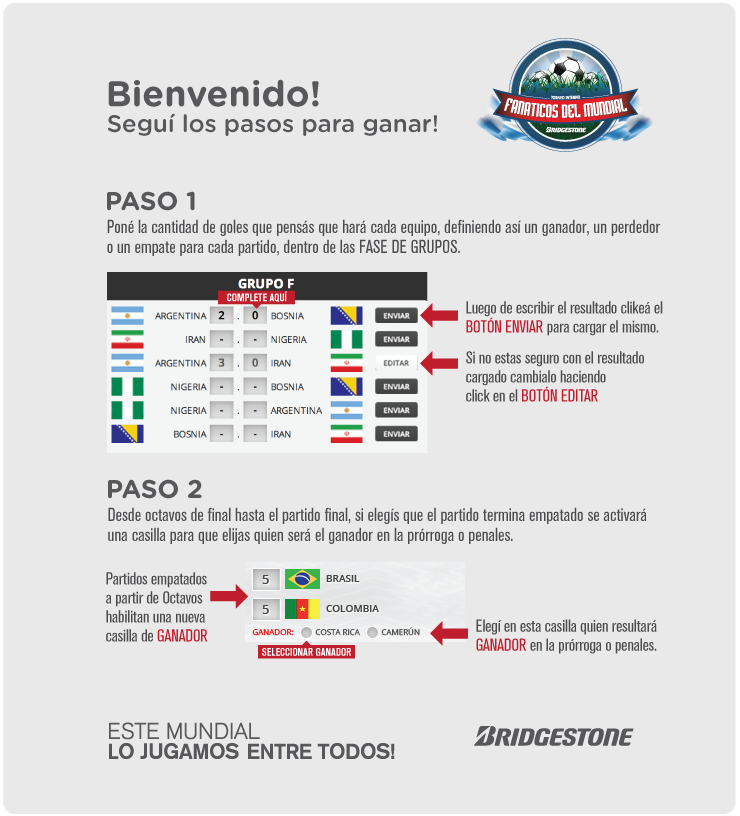
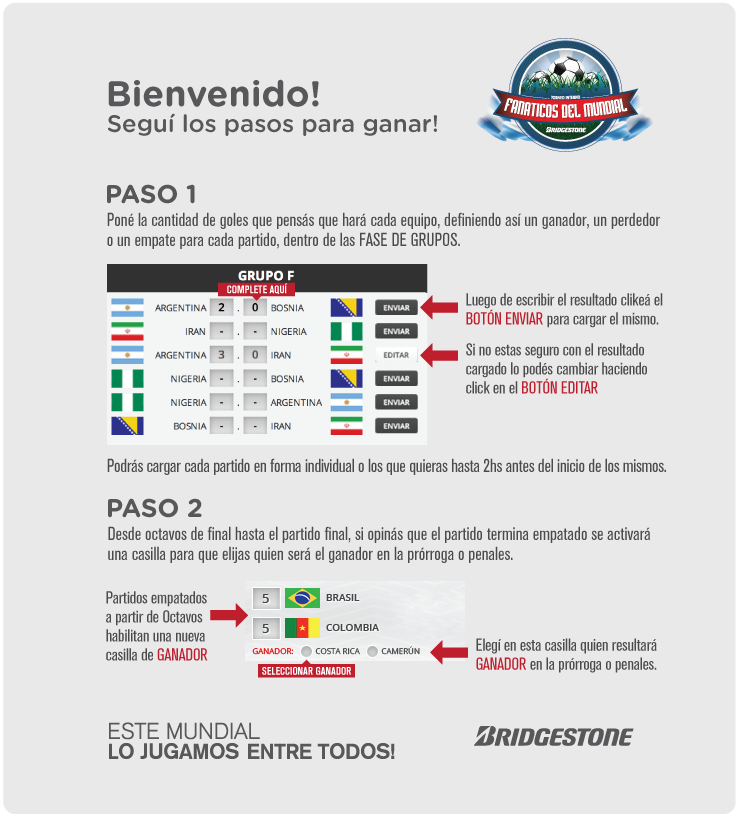
Entrega Final

Changed region(s): [[0.1243, 0.2145, 0.9014, 0.8578]]

diff --git a/trunk/application/views/view_final.php b/trunk/application/views/view_final.php
@@ -61,7 +61,7 @@
 								</div>
 							<? } else { 
 								 if ($horas->d <= 2) {?>
-									<? if ($horas->d != 0 || $horas->h >= 5) {?>
+									<? if ($horas->d != 0 || $horas->h >= 2) {?>
 										<? if (empty($partidosUsuario[$idPartido])) { ?>
 											<div class="boton-enviar <?echo base_url()?>assets/js-boton-enviar"></div>
 										<? } else { ?>
@@ -128,7 +128,7 @@
 								</div>
 							<? } else { 
 								 if ($horas->d <= 2) {?>
-									<? if ($horas->d != 0 || $horas->h >= 5) {?>
+									<? if ($horas->d != 0 || $horas->h >= 2) {?>
 										<? if (empty($partidosUsuario[$idPartido] )) { ?>
 											<div id="boton-<?=$idPartido?>" class="boton-enviar <?echo base_url()?>assets/js-boton-enviar"></div>
 										<? } else { ?>
@@ -200,7 +200,7 @@
 									</div>
 								<? } else { 
 									 if ($horas->d <= 2) {?>
-										<? if ($horas->d != 0 || $horas->h >= 5) {?>
+										<? if ($horas->d != 0 || $horas->h >= 2) {?>
 											<? if (empty($partidosUsuario[$idPartido] )) { ?>
 												<div class="boton-enviar <?echo base_url()?>assets/js-boton-enviar"></div>
 											<? } else { ?>
@@ -284,7 +284,7 @@
 									</div>
 								<? } else { 
 									 if ($horas->d <= 2) {?>
-										<? if ($horas->d != 0 || $horas->h >= 5) {?>
+										<? if ($horas->d != 0 || $horas->h >= 2) {?>
 											<? if (empty($partidosUsuario[$idPartido] )) { ?>
 												<div class="boton-enviar <?echo base_url()?>assets/js-boton-enviar"></div>
 											<? } else { ?>
@@ -357,7 +357,7 @@
 									</div>
 								<? } else { 
 									 if ($horas->d <= 2) {?>
-										<? if ($horas->d != 0 || $horas->h >= 5) {?>
+										<? if ($horas->d != 0 || $horas->h >= 2) {?>
 											<? if (empty($partidosUsuario[$idPartido] )) { ?>
 												<div class="boton-enviar <?echo base_url()?>assets/js-boton-enviar"></div>
 											<? } else { ?>

diff --git a/trunk/application/views/view_nuevoUsuario.php b/trunk/application/views/view_nuevoUsuario.php
@@ -89,7 +89,7 @@
                             </div>
                         </form>
                         <div class="pie">
-                            <div class="terminos-link">TÉRMINOS Y CONDICIONES</div>
+                            <a href='<?echo base_url()?>assets/uploads/Bases_Promocion_Mundial_interno_FINAL.docx'><div class="terminos-link">TÉRMINOS Y CONDICIONES</div></a>
                         </div>
                 </div>
                         <div class="contenedor-terminos">

diff --git a/trunk/application/controllers/prode.php b/trunk/application/controllers/prode.php
@@ -24,11 +24,8 @@ class Prode extends CI_Controller {
 		//$fechaHoy = new DateTime('2014-06-27 14:00');
 		
 		$fechaHoy = new DateTime(date('Y-m-d G:i'));
-		//var_dump($fechaHoy);
-		//die();
+
 		$usuario =$this->session->userdata('usuario'); 
-		//var_dump($usuario[0]->idUsuario);
-		//var_dump($this->Usuario->getUsuario($usuario[0]->idUsuario));
 		
 		//die();
 		$grupos = 						$this->Grupo->get_paged_list(30, 0)->result();

diff --git a/trunk/application/views/view_fasegrupo.php b/trunk/application/views/view_fasegrupo.php
@@ -35,7 +35,7 @@
 								</div>
 							<? } else { 
 								// if ($horas->d <= 2) {?>
-									<? if ($horas->d != 0 || $horas->h >= 5) {?>
+									<? if ($horas->d != 0 || $horas->h >= 2) {?>
 										<? if (empty($partidosUsuario[$idPartido])) { ?>
 											<div class="boton-enviar <?echo base_url()?>assets/js-boton-enviar"></div>
 										<? } else { ?>
